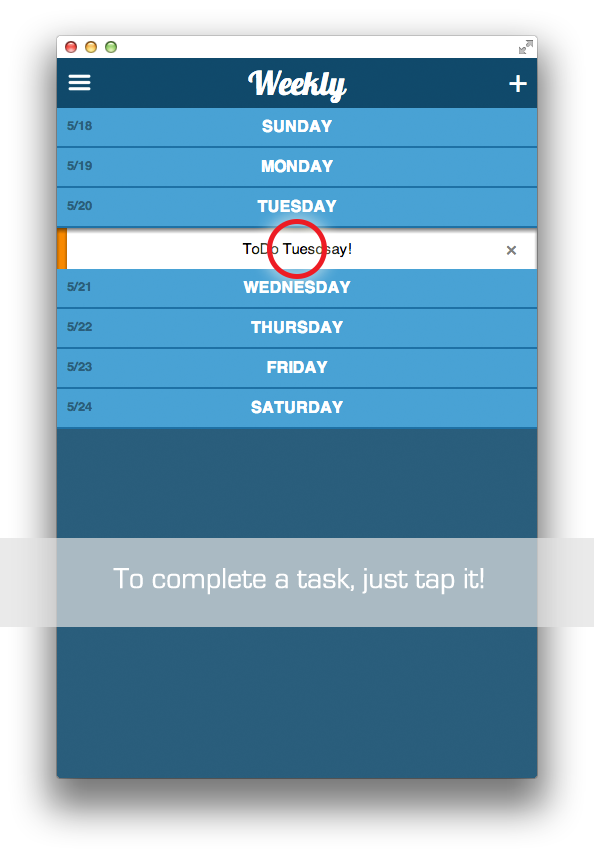
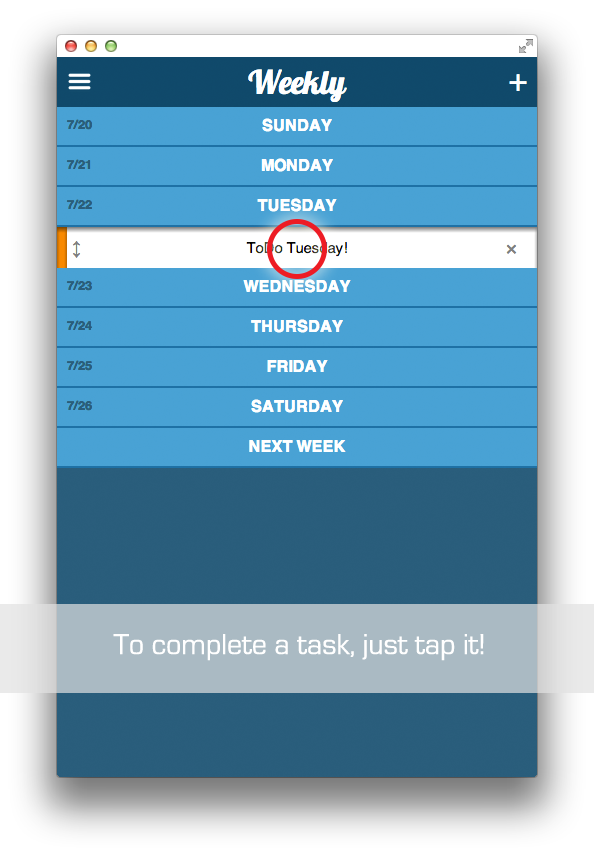
Updated tour, next week feature, bug fix for drag on same day, and more

diff --git a/www/assets/js/controllers.js b/www/assets/js/controllers.js
@@ -319,6 +319,8 @@ weeklyApp.controller('DayCtrl',
 
   $scope.restoreDays = function() {
     // Restore cached tasks
+    weekdayModel.clearAll();
+
     // TODO: Don't bother if they're not for the right week, check
     localStorageAPI.get('days').then(function(days) {
       days.forEach(function(day) {
@@ -337,14 +339,16 @@ weeklyApp.controller('DayCtrl',
     $scope.draggedTask = task;
     $scope.draggedTaskDay = day;
 
-    // TODO: disable dropping on this day
+    // TODO: Get this jQuery out of here!
+    $('#day-' + day.ind).droppable('disable');
   }
 
   $scope.taskDragStop = function(evt, ui, task, day) {
     console.log('DRAG STOP');
     task.dragging = false;
 
-    // TODO: enable dropping on this day
+    // TODO: Get this jQuery out of here!
+    $('.day').droppable('enable');
   }
 
   $scope.dayDrop = function(evt, ui, day) {
@@ -382,8 +386,6 @@ weeklyApp.controller('DayCtrl',
 
     // Update event sequence (without knowing success or not)
     $scope.draggedTask.setSequence($scope.draggedTask.sequence + 1)
-
-    // TODO: Add CSS classes to the drop targets 
   }
 
   $scope.taskDragOpts = {
@@ -404,7 +406,8 @@ weeklyApp.controller('DayCtrl',
    */
   localStorageAPI.getAlways('firstLogIn').then(function(firstLogIn) {
     if (firstLogIn) {
-      // Not the first log in
+      // Not the first log in, so get tasks
+      $scope.restoreDays();
       $scope.logIn(false);
     } else {
       // First log in

diff --git a/www/index.html b/www/index.html
@@ -53,6 +53,7 @@
           <a href="assets/img/WeeklyTour-4.png" class="swipebox"></a>
           <a href="assets/img/WeeklyTour-5.png" class="swipebox"></a>
           <a href="assets/img/WeeklyTour-6.png" class="swipebox"></a>
+          <a href="assets/img/WeeklyTour-7.png" class="swipebox"></a>
         </li>
         <li class="menu-item" ng-click="refresh()" ng-if="token">
           Refresh
@@ -96,7 +97,7 @@
           jqyoui-droppable="{ onDrop:'dayDrop(day)' }"
           data-jqyoui-options="{{ dayDropOpts }}"
           data-drop="true">
-          <span class="day-date">
+          <span class="day-date" ng-if="day.isThisWeek()">
             {{ day.humanDate() }}
           </span>
           {{ day.name }}

diff --git a/www/assets/js/services.js b/www/assets/js/services.js
@@ -4,8 +4,8 @@
 weeklyApp.service('weekdayModel', ['$rootScope', function($rootScope) {
   this.days = [];
 
-  this.dayNames = ['Sunday', 'Monday', 'Tuesday', 'Wednesday', 'Thursday', 'Friday', 'Saturday'];
-  this.dayTasks = [ [], [], [], [], [], [], [] ];
+  this.dayNames = ['Sunday', 'Monday', 'Tuesday', 'Wednesday', 'Thursday', 'Friday', 'Saturday', 'Next Week'];
+  this.dayTasks = [ [], [], [], [], [], [], [], [] ];
 
   for (i = 0; i < this.dayNames.length; i++) {
     this.days.push(new Weekday(this.dayNames[i], i, this.dayTasks[i]));

diff --git a/www/assets/js/models.js b/www/assets/js/models.js
@@ -48,6 +48,10 @@ Weekday.prototype.humanDate = function() {
   return (myDate.getMonth() + 1) + '/' + (myDate.getDate());
 }
 
+Weekday.prototype.isThisWeek = function() {
+  return (this.ind >= 0 && this.ind <= 6);
+}
+
 /**
  * Task object
  */
